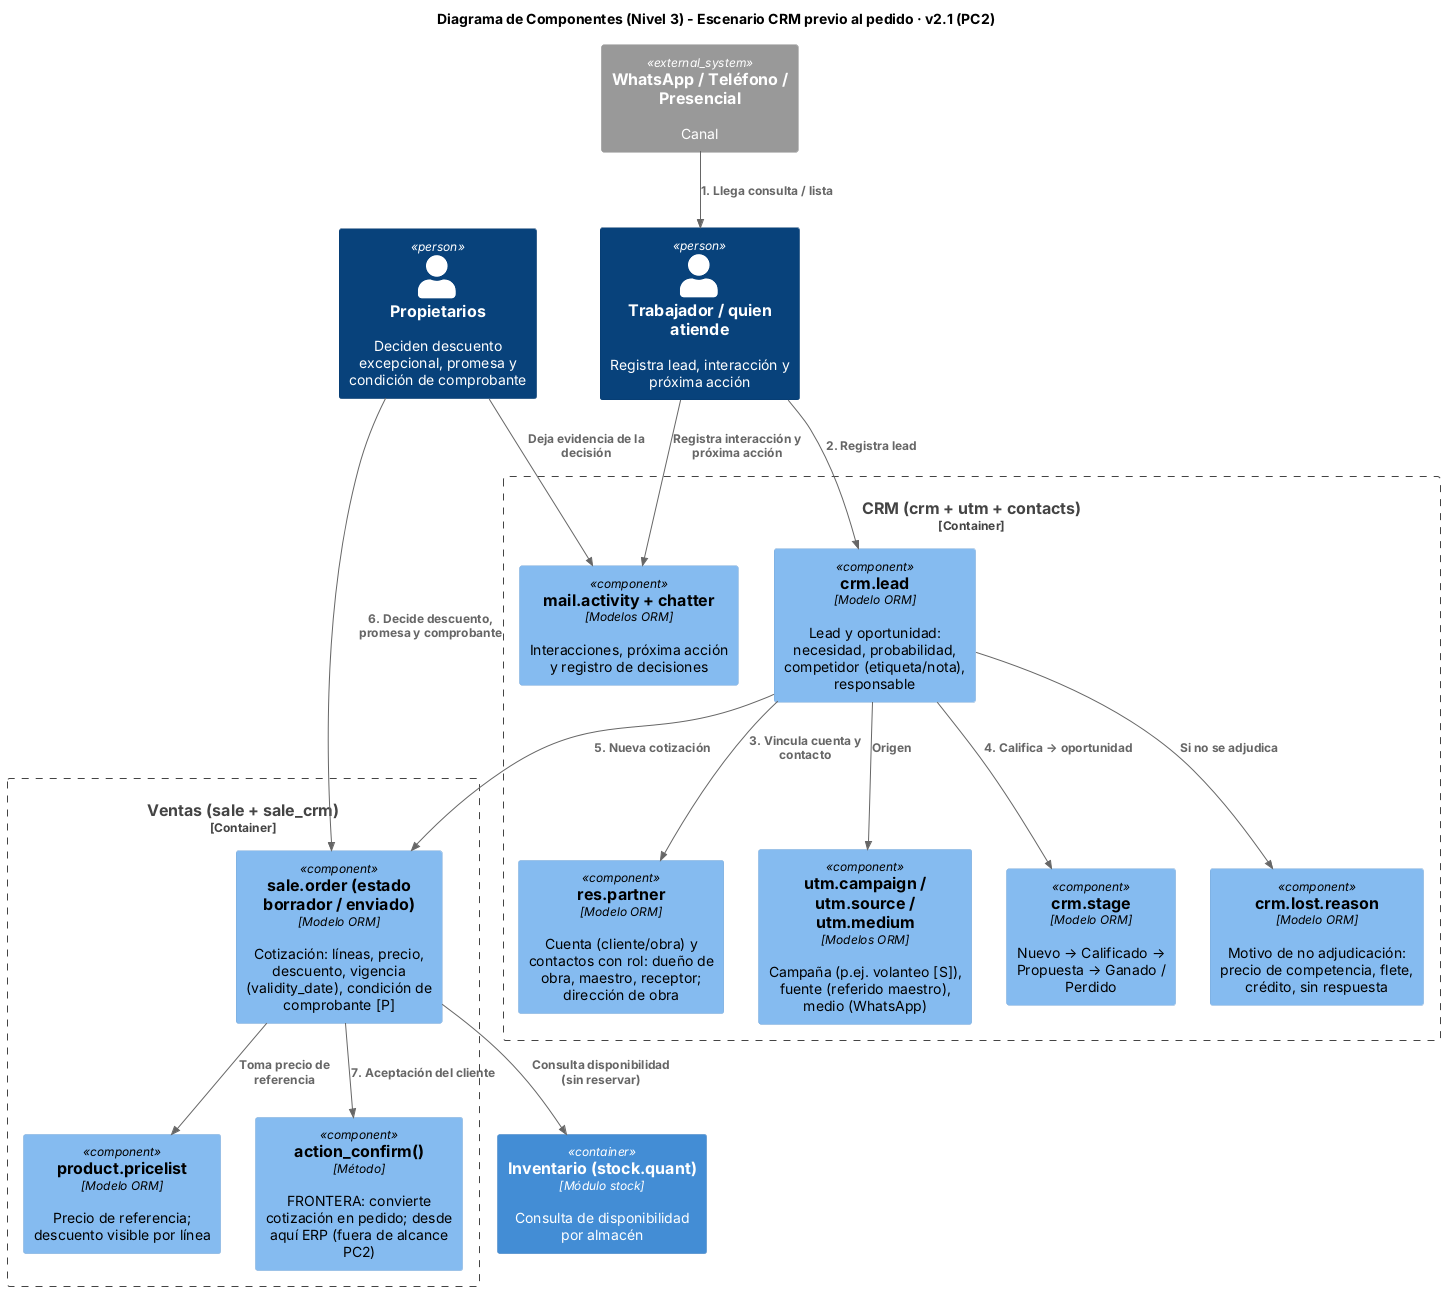
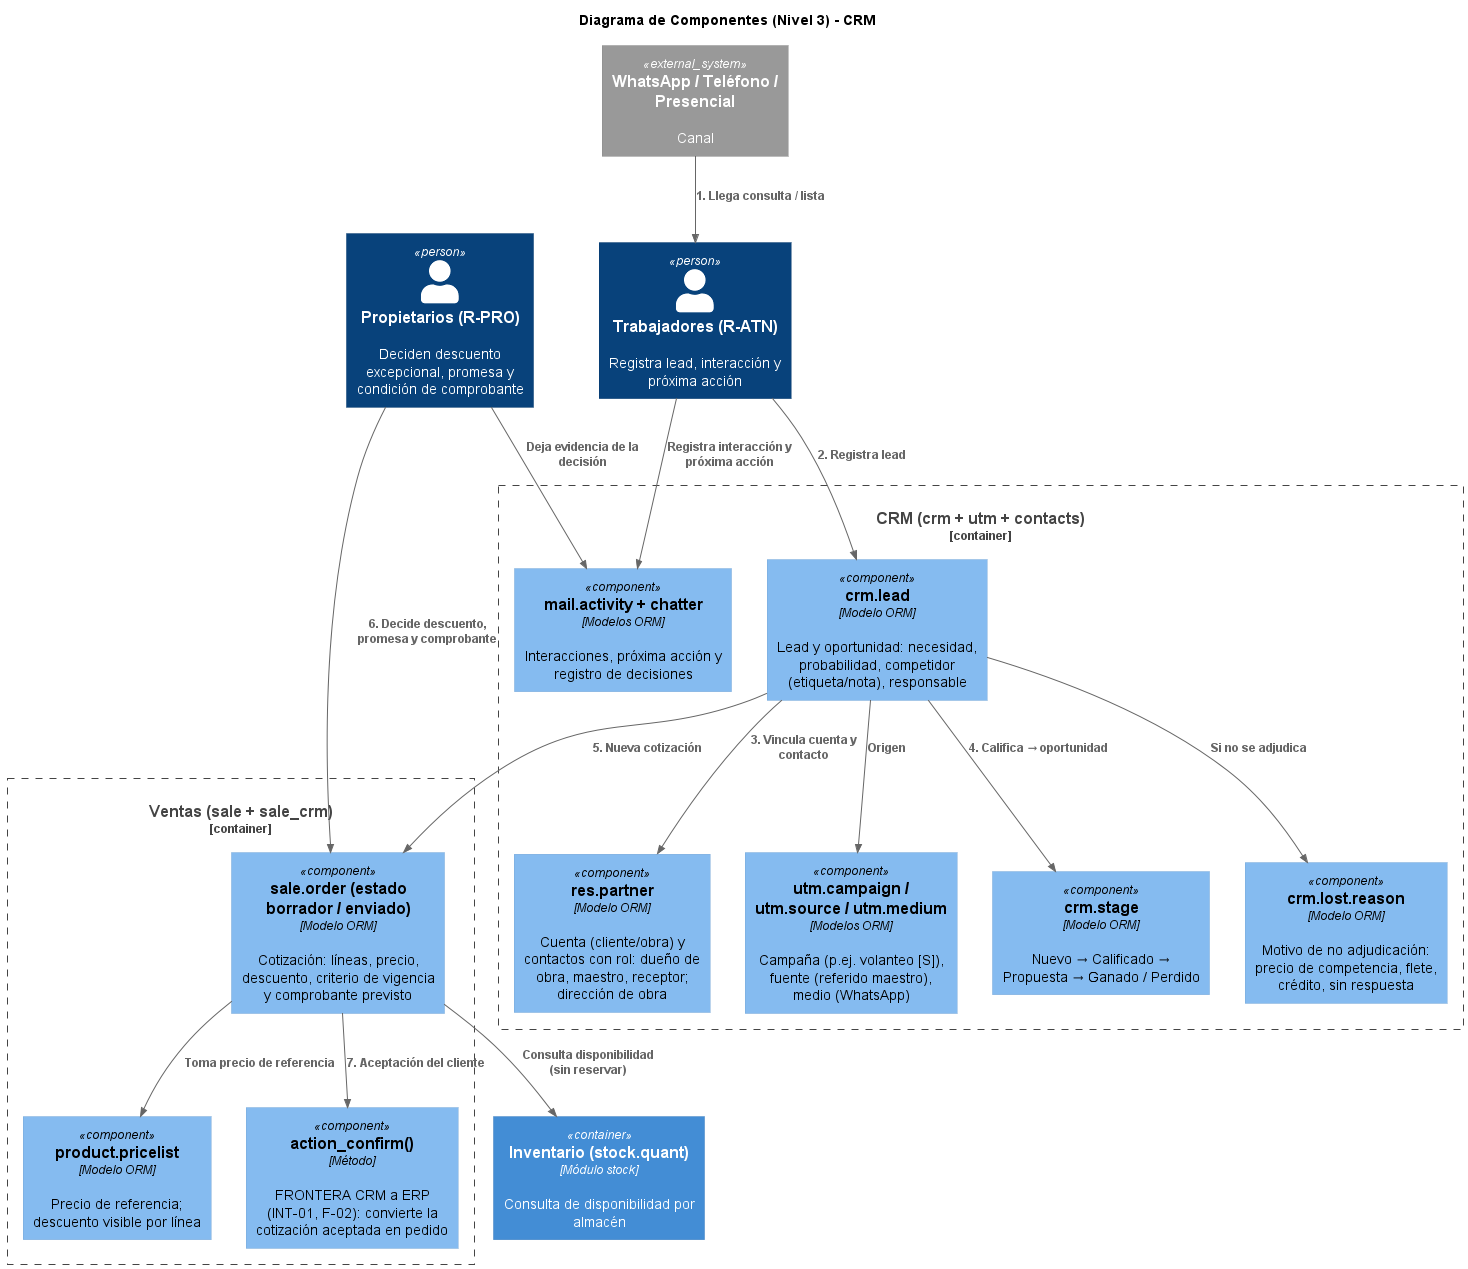
docs(vistas): alinear diagramas C4 con los flujos actuales

diff --git a/arquitectura/vistas/consolidado-diagramas.md b/arquitectura/vistas/consolidado-diagramas.md
@@ -22,19 +22,19 @@ Expone la infraestructura técnica subyacente. Se visualiza el cliente web, la b
 
 Profundiza en los contenedores específicos para revelar los componentes internos (modelos ORM y controladores lógicos) que ejecutan los flujos de negocio principales.
 
-### 3.1. Flujo Integral de Ventas
+### 3.1. Order to Cash
 
-Representa la orquestación técnica dentro de los módulos comerciales. Muestra cómo la transición de estado de un pedido desencadena automáticamente operaciones en el inventario y en la contabilidad general, y cómo se gestiona el flujo alternativo de quiebre de stock.
+Muestra la confirmación del pedido desde la cotización aceptada (frontera CRM a ERP, [INT-01](../integraciones/INT-01-CRM-ERP.md)), la entrega por ubicación, la venta de mostrador con descuento automático de stock y el registro de la referencia del comprobante emitido en KeyFacil. Odoo no emite comprobantes fiscales ([ADR-004](../decisiones/ADR-004-odoo-community-fronteras-crm-erp.md)). Flujo detallado: [O2C](../../procesos/o2c/flujo.md).
 
 ![componentes-ventas](c4/render/componentes/ventas.png)
 
-### 3.2. Gestión de Inventario Centralizada
+### 3.2. Gestión de inventario
 
-Ilustra cómo el sistema centraliza los movimientos de mercadería provenientes de recepciones manuales, ventas mayoristas y consolidaciones de mostrador (POS), garantizando la integridad de los datos físicos y su correspondiente valoración financiera.
+Muestra recepciones, entregas, transferencias y ajustes por ubicación (Tienda, Almacén 1 y Almacén 2). Los ajustes requieren autorización de un propietario (SOD-03) y la valoración contable automática queda por validar. Flujo detallado: [inventario](../../procesos/inventario/flujo.md).
 
 ![componentes-inventario](c4/render/componentes/inventario.png)
 
-### 3.3. Escenario CRM previo al pedido (PC2)
+### 3.3. Escenario CRM previo al pedido
 
 Muestra el recorrido comercial dentro del CRM de Odoo 18 Community: lead, calificación, actividades, cotización y motivos de pérdida. El método `action_confirm()` marca la frontera conceptual: hasta la cotización el CRM conserva el contexto comercial; desde la confirmación, el ERP compromete y ejecuta (ver ADR-004).
 
